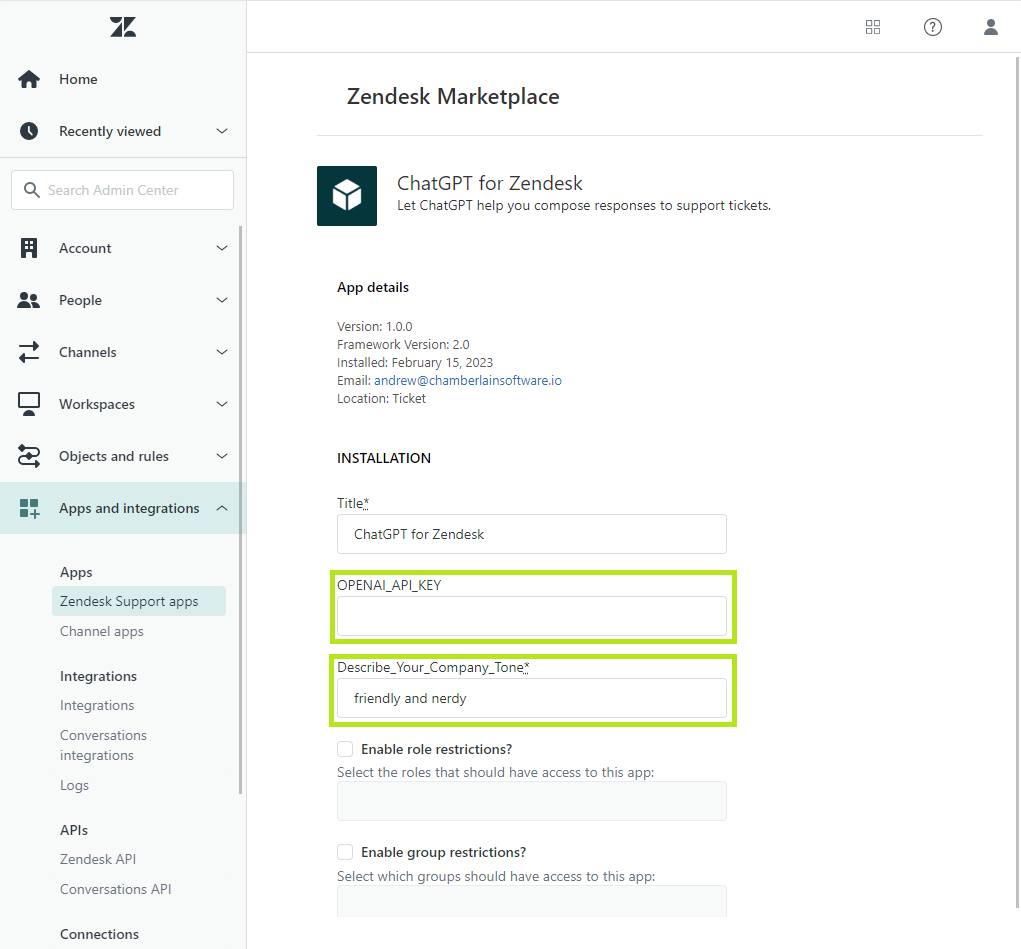
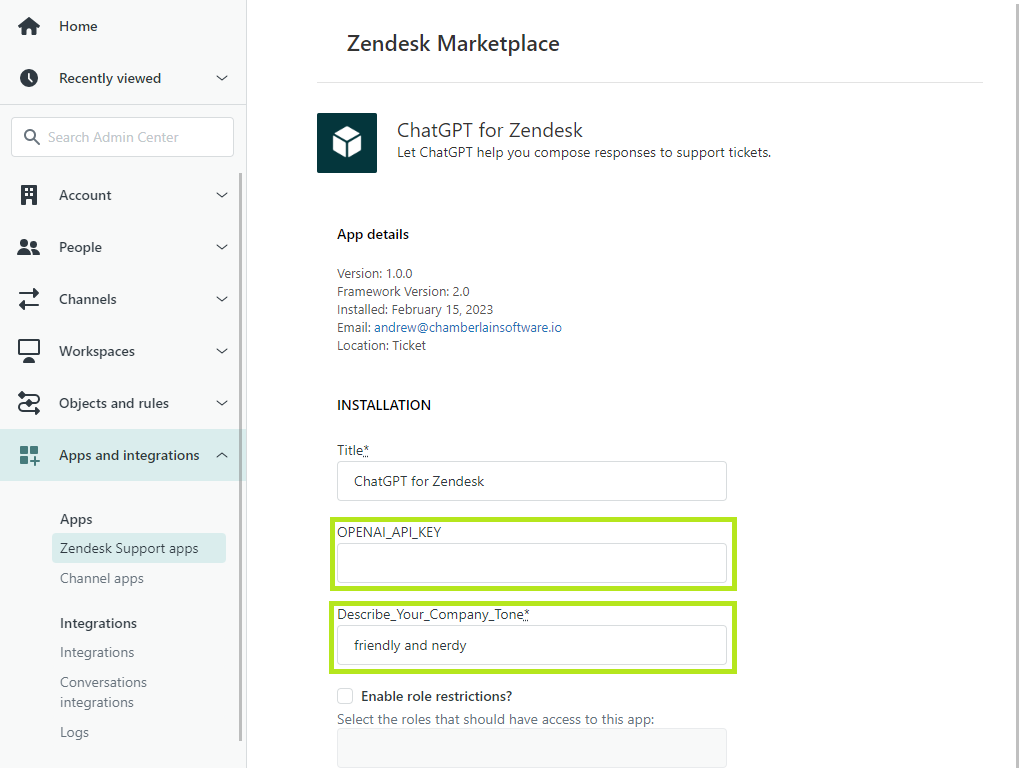
Correct problems detected by marketplace
* Fix screenshot-2.png dimensions
* Manifest: Add author URL
* Manifest: Set private to false
* en.json: Add parameter descriptions to the translation file
* Remove console.log statement

diff --git a/assets/main.js b/assets/main.js
@@ -41,7 +41,6 @@ function setLogLevel(logLevel, console) {
       console.warn = function(){};
       // intentional fall through
     case "WARN":
-      console.log = function(){};
       console.info = function(){};
       // intentional fall through
     case "INFO":
